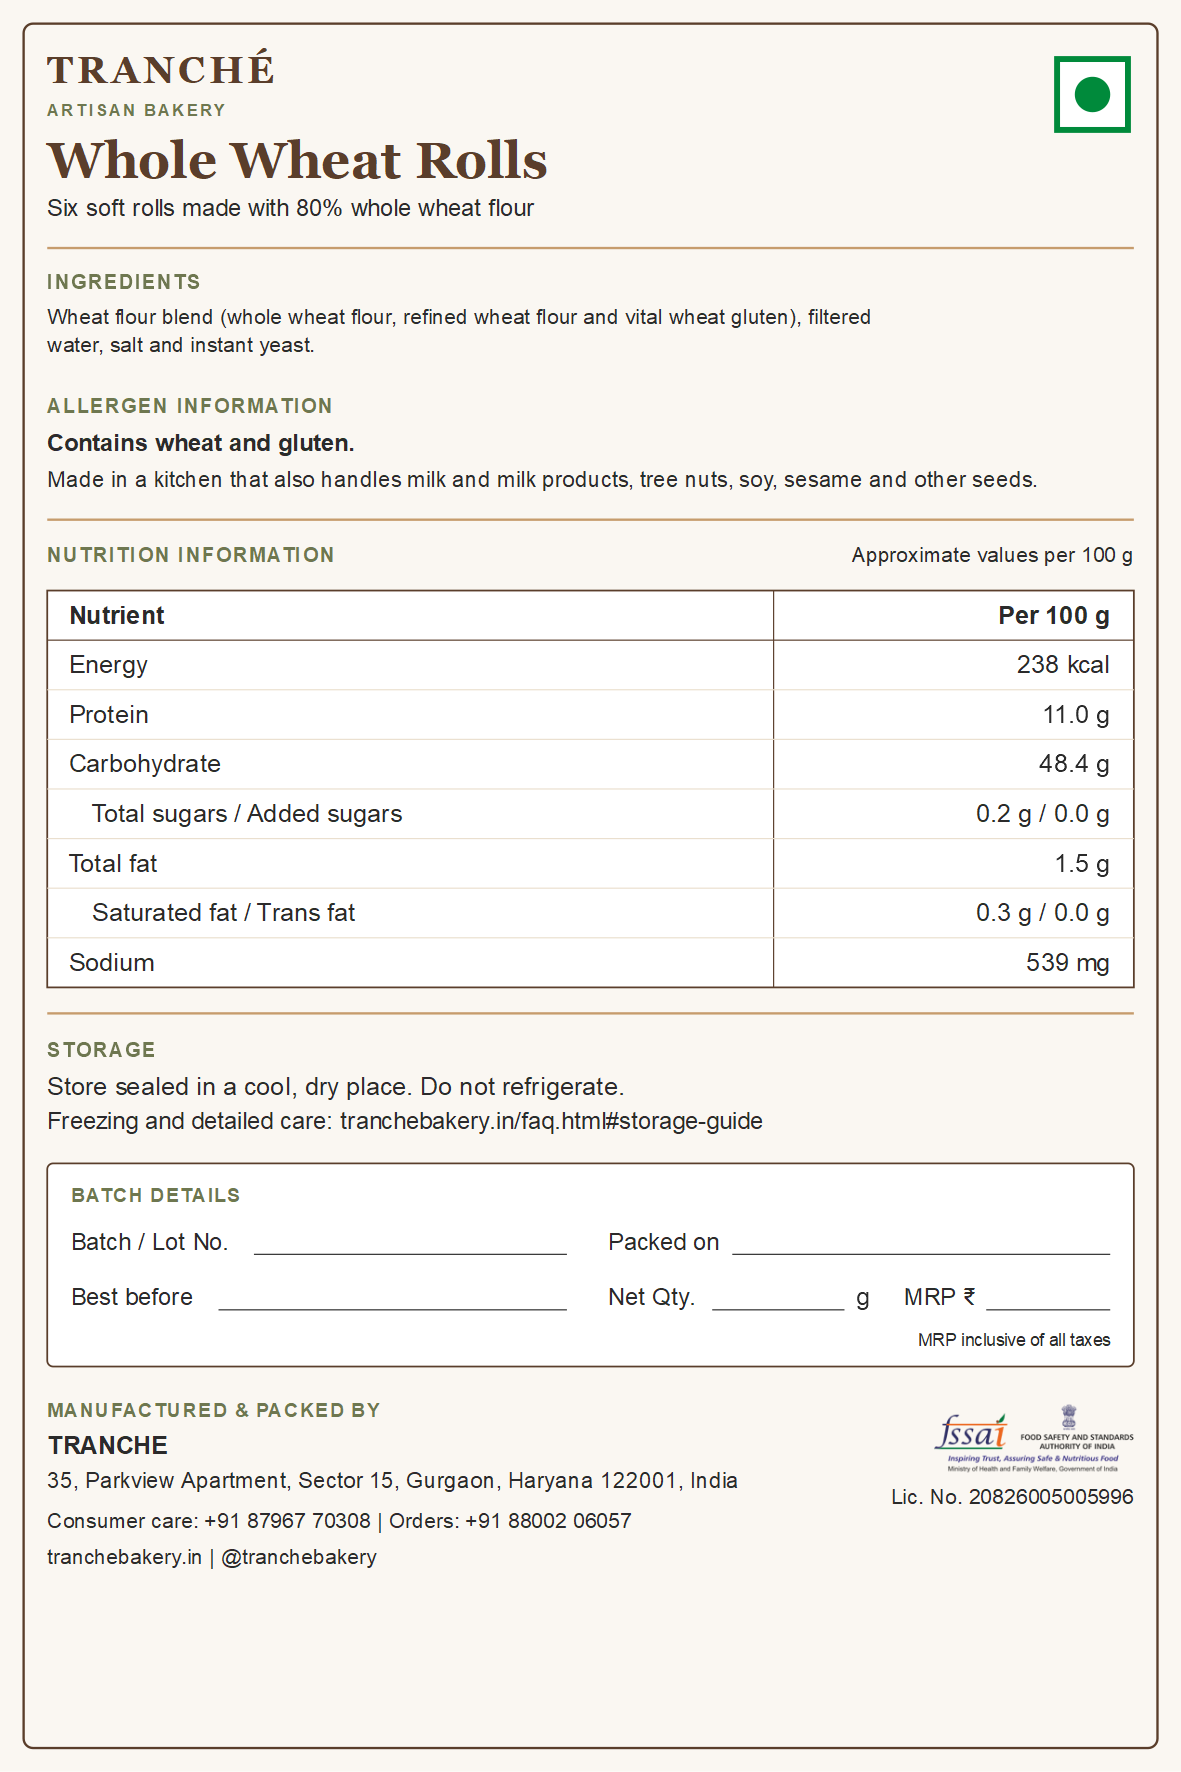
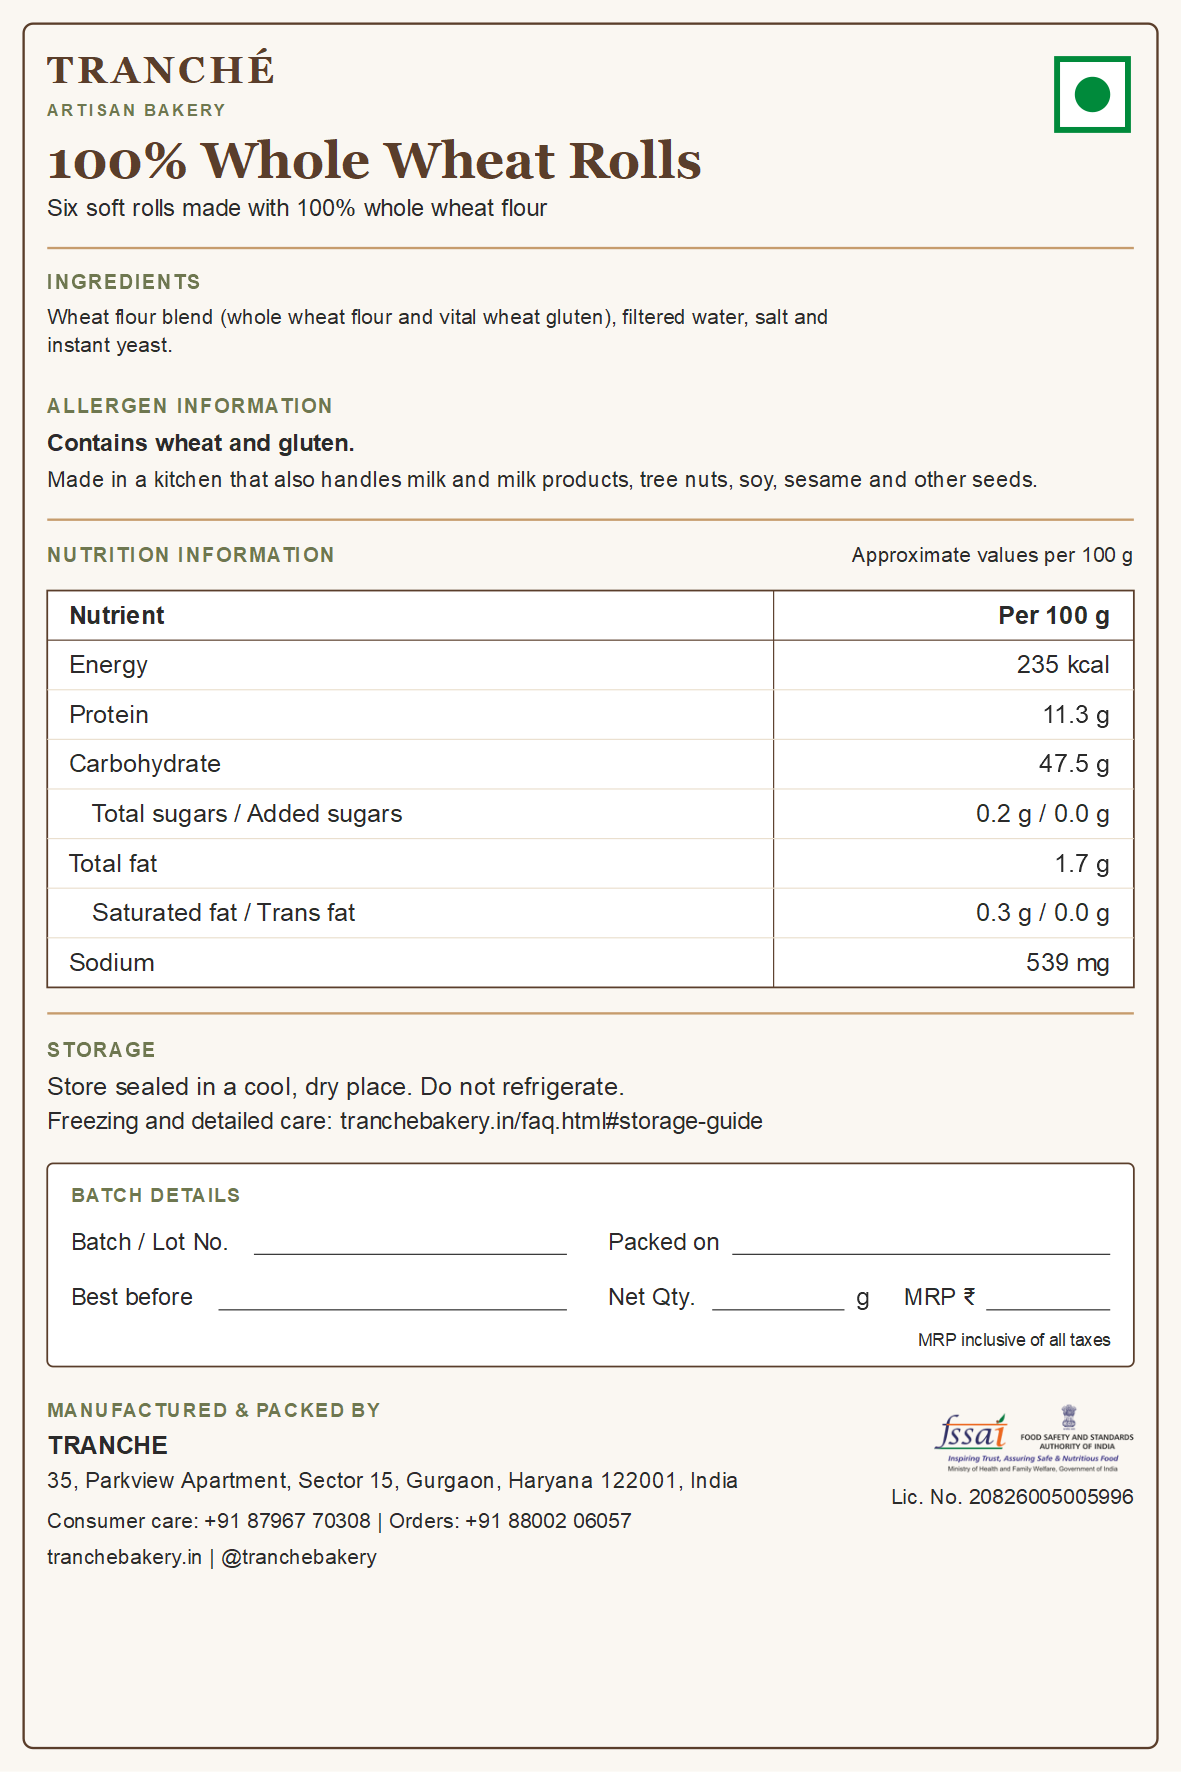
100% whole wheat roll changes.

diff --git a/reference/RegulatoryLabels-ProductionMatrix.md b/reference/RegulatoryLabels-ProductionMatrix.md
@@ -6,15 +6,15 @@ All nutrition values are recipe-based approximations per 100 g, calculated from 
 
 | Code | Product | Yield basis | kcal | Protein g | Carbohydrate g | Sugars / added g | Fat g | Saturated / trans g | Sodium mg |
 | --- | --- | ---: | ---: | ---: | ---: | ---: | ---: | ---: | ---: |
-| L-001 | Classic Table White | 665 g | 218 | 8.2 | 44.3 | 0.2 / 0.0 | 0.8 | 0.1 / 0.0 | 474 |
-| L-002 | Whole Wheat Loaf | 750 g | 206 | 9.9 | 42.0 | 0.2 / 0.0 | 1.4 | 0.2 / 0.0 | 422 |
+| L-001 | Classic Table White | 645 g | 225 | 8.4 | 45.6 | 0.2 / 0.0 | 0.9 | 0.1 / 0.0 | 488 |
+| L-002 | 100% Whole Wheat Loaf | 750 g | 206 | 9.9 | 42.0 | 0.2 / 0.0 | 1.4 | 0.2 / 0.0 | 422 |
 | L-004 | Multi-Seed Loaf | 765 g | 234 | 9.7 | 40.0 | 0.3 / 0.0 | 4.7 | 0.6 / 0.0 | 415 |
 | L-006 | Milk & Butter Loaf | 740 g | 267 | 8.7 | 44.4 | 4.6 / 2.7 | 6.1 | 3.5 / 0.2 | 445 |
 | L-007 | Honey & Walnut Loaf | 765 g | 248 | 9.1 | 42.0 | 3.7 / 3.3 | 5.9 | 0.6 / 0.0 | 368 |
 | L-008 | Olive Loaf | 740 g | 238 | 7.5 | 40.1 | 0.2 / 0.0 | 5.2 | 0.8 / 0.0 | 657 |
 | L-009 | Caramelized Onion Loaf | 665 g | 229 | 8.3 | 44.8 | 0.4 / 0.0 | 1.9 | 0.3 / 0.0 | 422 |
 | L-010 | Honey & Oat Loaf | 800 g | 268 | 8.8 | 48.2 | 4.8 / 3.6 | 4.5 | 2.3 / 0.1 | 361 |
-| BR-007 | Whole Wheat Rolls | 660 g | 238 | 11.0 | 48.4 | 0.2 / 0.0 | 1.5 | 0.3 / 0.0 | 539 |
+| BR-007 | 100% Whole Wheat Rolls | 660 g | 235 | 11.3 | 47.5 | 0.2 / 0.0 | 1.7 | 0.3 / 0.0 | 539 |
 | BR-008 | Multi-Seed Rolls | 660 g | 276 | 11.5 | 48.3 | 0.3 / 0.0 | 5.1 | 0.7 / 0.0 | 481 |
 | BR-006 | Milk Buns | 660 g | 329 | 10.3 | 56.2 | 6.2 / 4.5 | 7.1 | 4.0 / 0.2 | 552 |
 | BR-005 | Sesame Burger Buns | 660 g | 330 | 10.5 | 56.2 | 4.7 / 3.8 | 7.0 | 2.7 / 0.1 | 546 |
